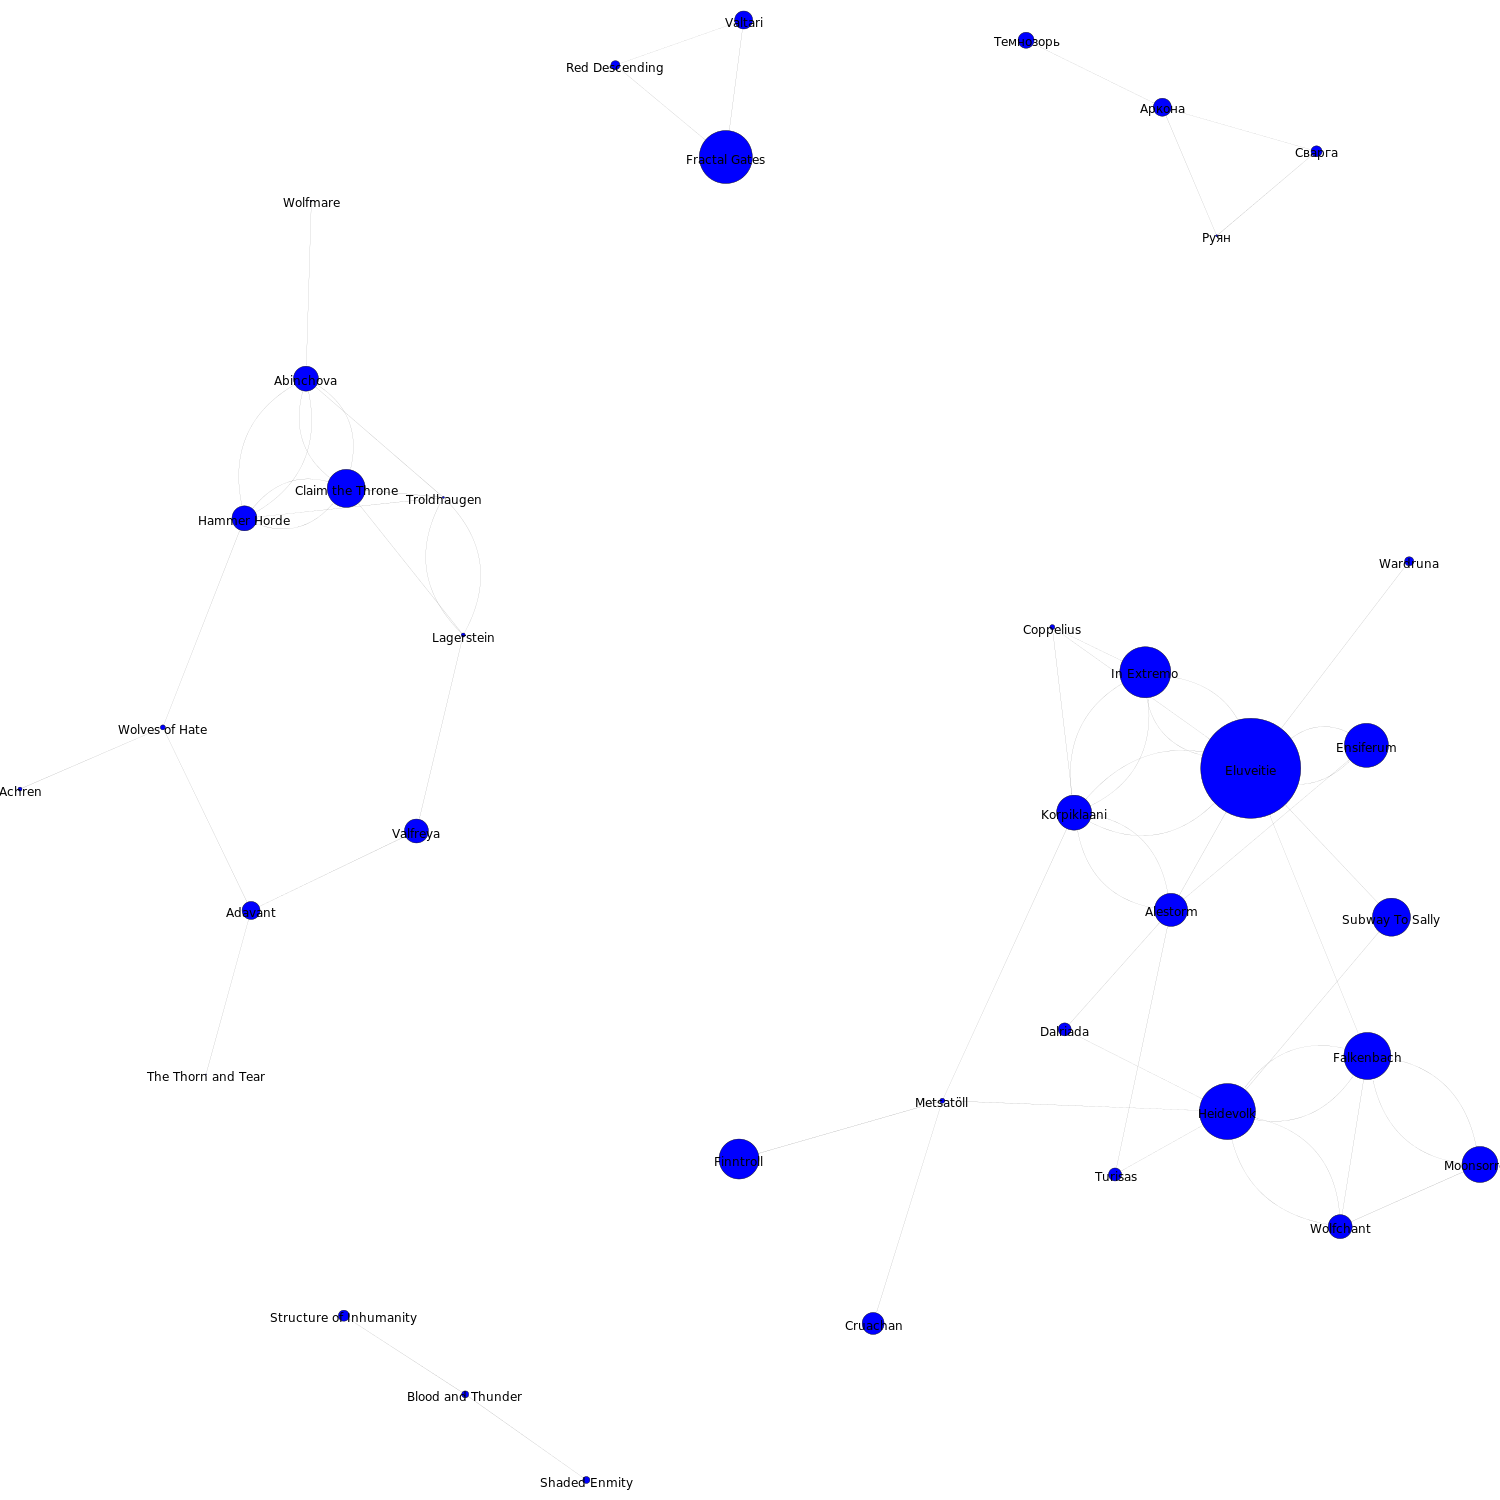
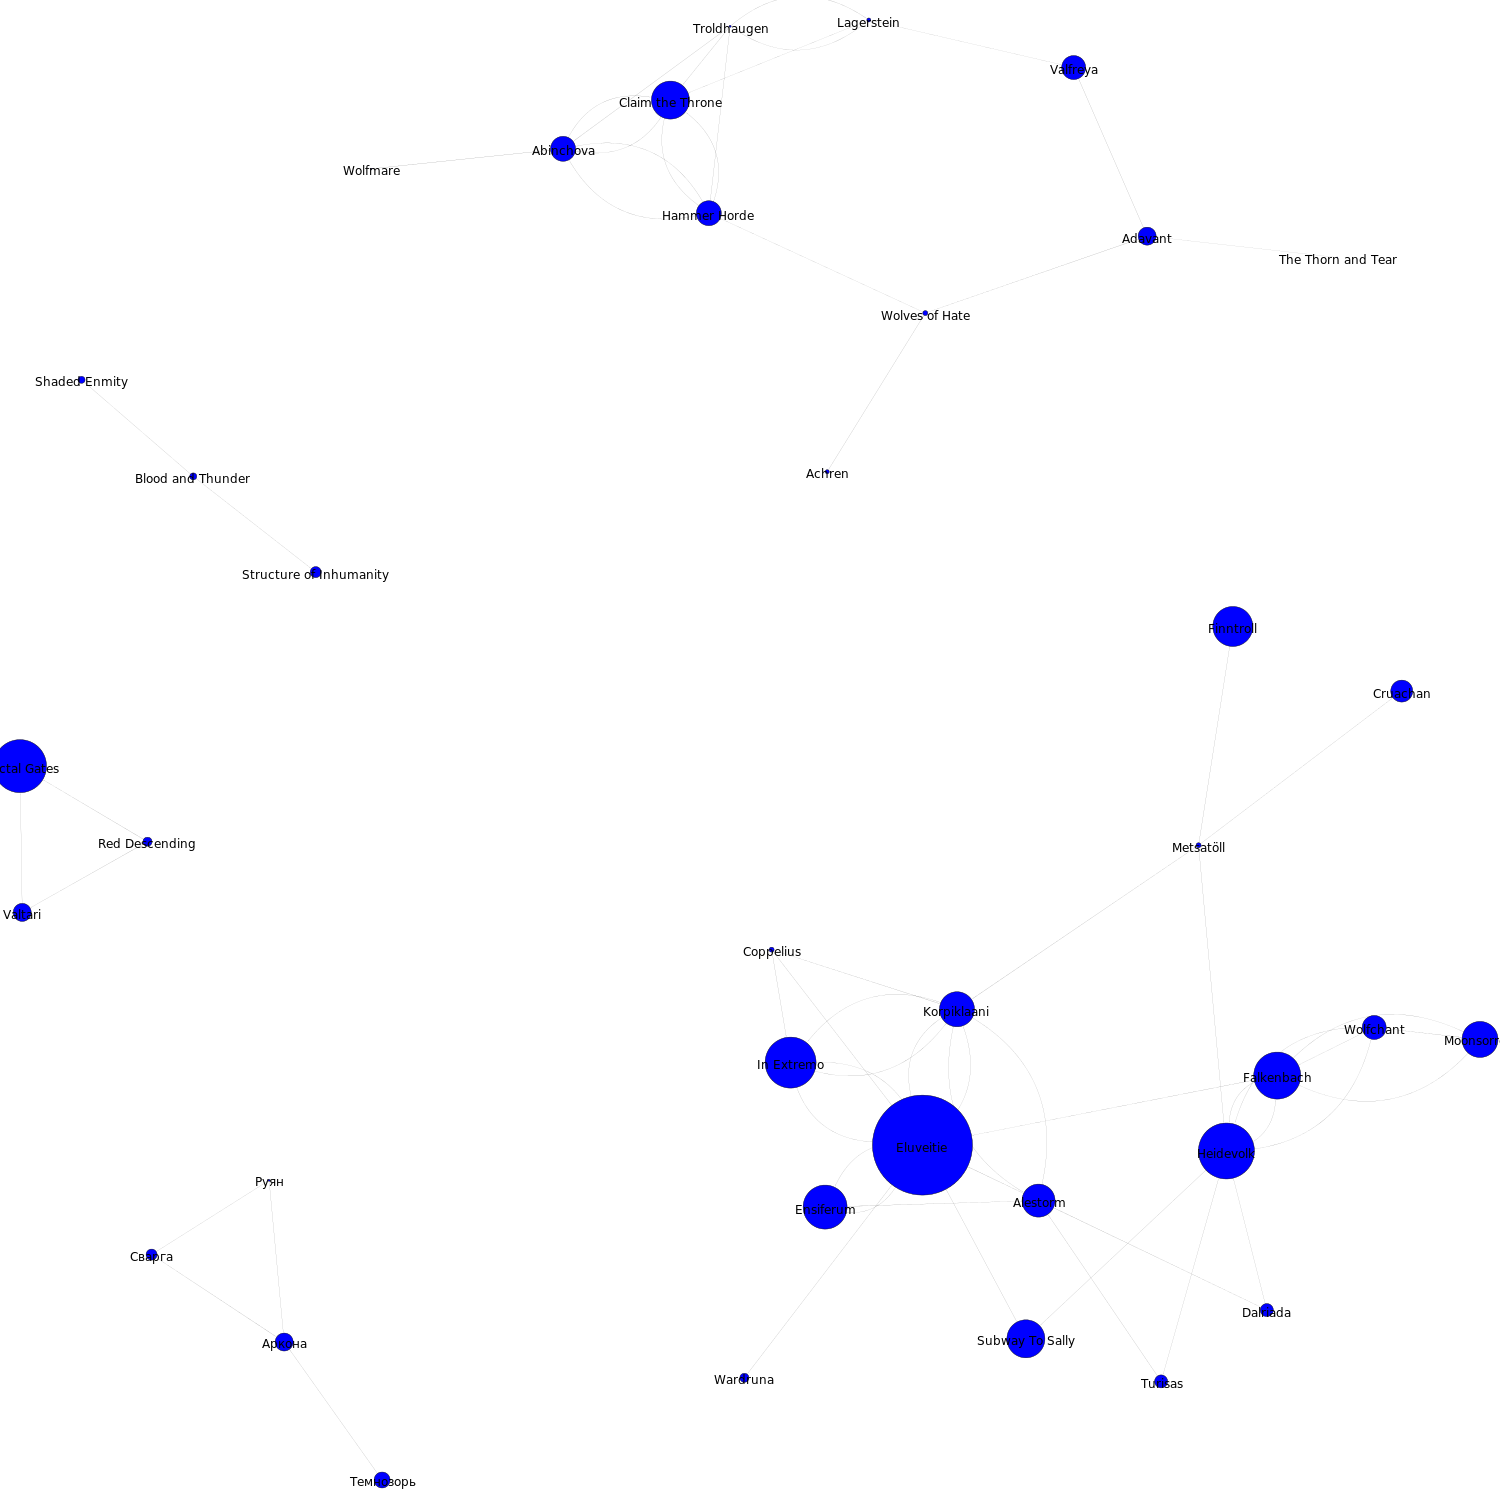
:construction:

diff --git a/plot.py b/plot.py
@@ -8,23 +8,26 @@ import pickle
 
 import igraph
 
-# fixme filepath
+
 CACHE_ENABLE = False
+# fixme filepath
 GRAPH_FILE = 'graph.gml'
 LAYOUT_FILE = 'graph.layout'
 PREVIEW_FILE = 'preview.png'
 FULL_MAP_PREVIEW_TPL = 'full_map_preview_%d.png'
-FULL_MAP_TPL = 'full_map_%d.ps'
+FULL_MAP_TPL = 'full_map_%d.eps'
 MINIMAL_NODE_SIZE = 1
 MAX_NODE_SIZE = 100
+
 LEVELS = [
-    {'canvas_size': 500, 'size_border': 80},
-    {'canvas_size': 1500, 'size_border': 40},
-    {'canvas_size': 4500, 'size_border': 1}
+    {'canvas_size': 2000, 'size_border_min': 80, 'size_border_max': MAX_NODE_SIZE, 'size_factor': 1},
+    {'canvas_size': 6000, 'size_border_min': 40, 'size_border_max': 80, 'size_factor': 3},
+    # {'canvas_size': 4500, 'size_border_min': 1, 'size_border_max': 40, 'size_factor': 9}
 ]
+
 PREVIEW_OPT = dict(bbox=(1500, 1500), edge_arrow_size=0.15, edge_arrow_width=0.15, edge_width=0.1,
                    vertex_frame_width=0.4, vertex_label_size=12)
-FULL_OPT = dict(bbox=(1000, 1000), edge_arrow_size=0.15, edge_arrow_width=0.15, edge_width=0.1,
+FULL_OPT = dict(edge_arrow_size=0.15, edge_arrow_width=0.15, edge_width=0.1,
                 vertex_frame_width=0.4, vertex_label_size=12)
 
 
@@ -41,14 +44,27 @@ def save_cache(l):
     pickle.dump(l, f)
 
 
+def prepare_graph_by_zoom_level(g, level_prop: dict):
+    cnt = Counter()
+    for v in g.vs:
+        # todo filter edges by deleted nodes?
+        if v['size'] < level_prop['size_border_min'] or v['size'] > level_prop['size_border_max']:
+            v['size'] = 0
+            v['label'] = ''
+            cnt['deleted'] += 1
+        else:
+            v['size'] *= level_prop['size_factor']
+    logging.info('prepare nodes %s' % cnt.items())
+
+
 def main():
     logging.info('compute layout start')
     graph = igraph.Graph.Read_GML(GRAPH_FILE)
     logging.info('graph loaded %d %d', graph.vcount(), graph.ecount())
-    l = read_cache()
-    if not l or not CACHE_ENABLE:
-        l = graph.layout('fr')
-        save_cache(l)
+    source_layout = read_cache()
+    if not source_layout or not CACHE_ENABLE:
+        source_layout = graph.layout('fr')
+        save_cache(source_layout)
     logging.info('compute layout end')
 
     logging.info('node prepare start')
@@ -62,7 +78,7 @@ def main():
     logging.info('node prepare end')
 
     logging.info('plot preview start')
-    p = igraph.plot(graph, PREVIEW_FILE, layout=l, **PREVIEW_OPT)
+    p = igraph.plot(graph, PREVIEW_FILE, layout=source_layout, **PREVIEW_OPT)
     p.save()
     logging.info('plot preview end')
 
@@ -71,19 +87,12 @@ def main():
         logging.info('generate level %s' % level)
         local_graph = deepcopy(graph)
 
-        cnt = Counter()
-        for v in local_graph.vs:
-            # todo filter edges by deleted nodes?
-            if v['size'] < level['size_border']:
-                v['size'] = 0
-                v['label'] = ''
-                cnt['deleted'] += 1
-        logging.info('filter nodes %s' % cnt.items())
+        prepare_graph_by_zoom_level(local_graph, level)
+        logging.info('prepare nodes')
 
         # todo plot ps file
-        opt = FULL_OPT
-        opt['bbox'] = (level['canvas_size'], level['canvas_size'])
-        p = igraph.plot(local_graph, FULL_MAP_PREVIEW_TPL % num, layout=l, **opt)
+        p = igraph.plot(local_graph, FULL_MAP_PREVIEW_TPL % num, layout=source_layout,
+                        bbox=(level['canvas_size'], level['canvas_size']), **FULL_OPT)
         p.save()
         # p = igraph.plot(local_graph, FULL_MAP_TPL % num, layout=l, **FULL_OPT)
         del p
